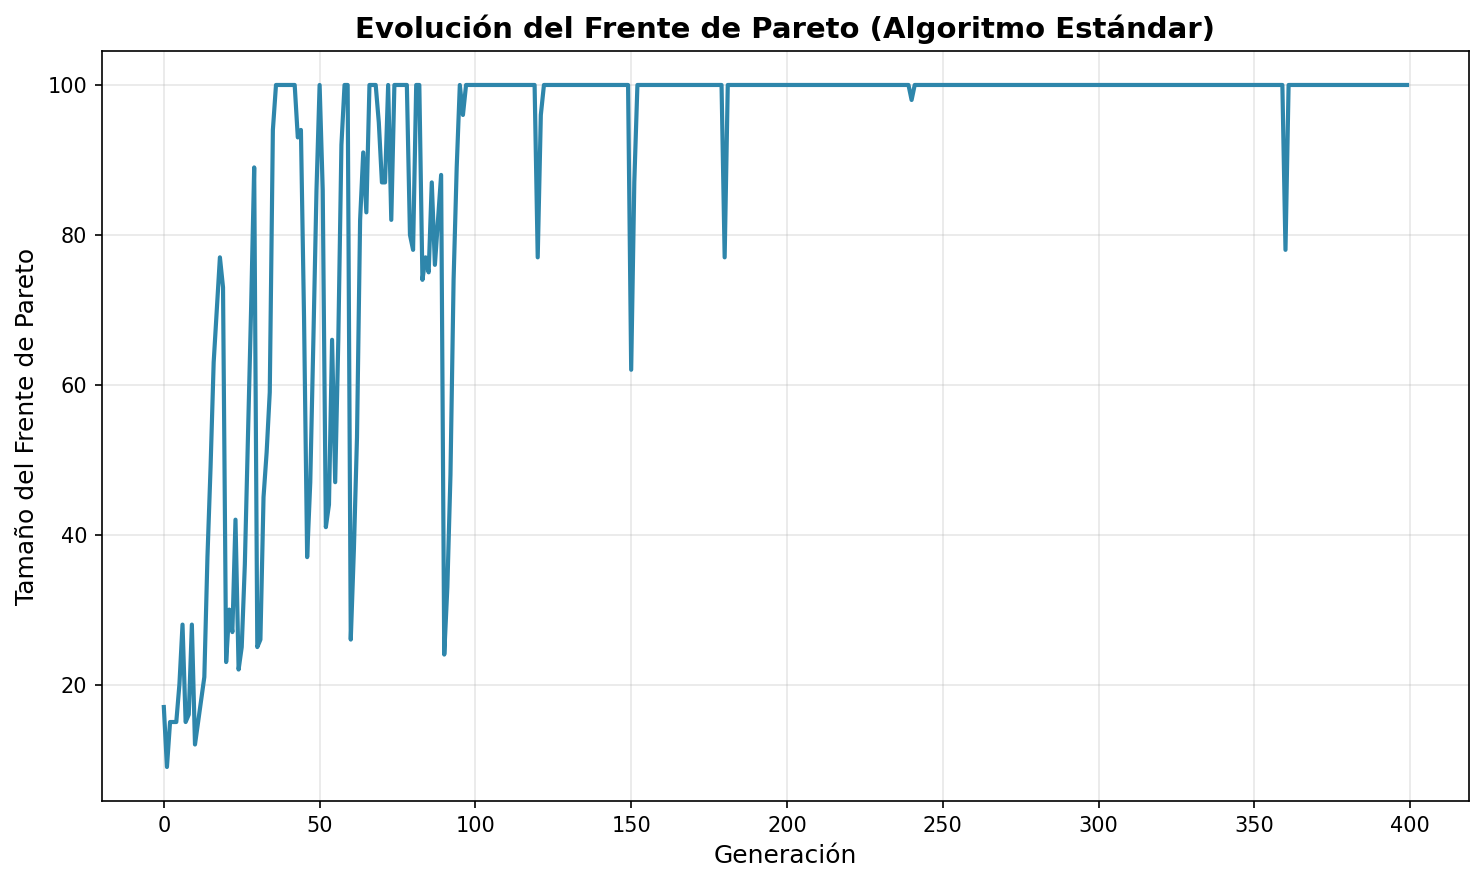
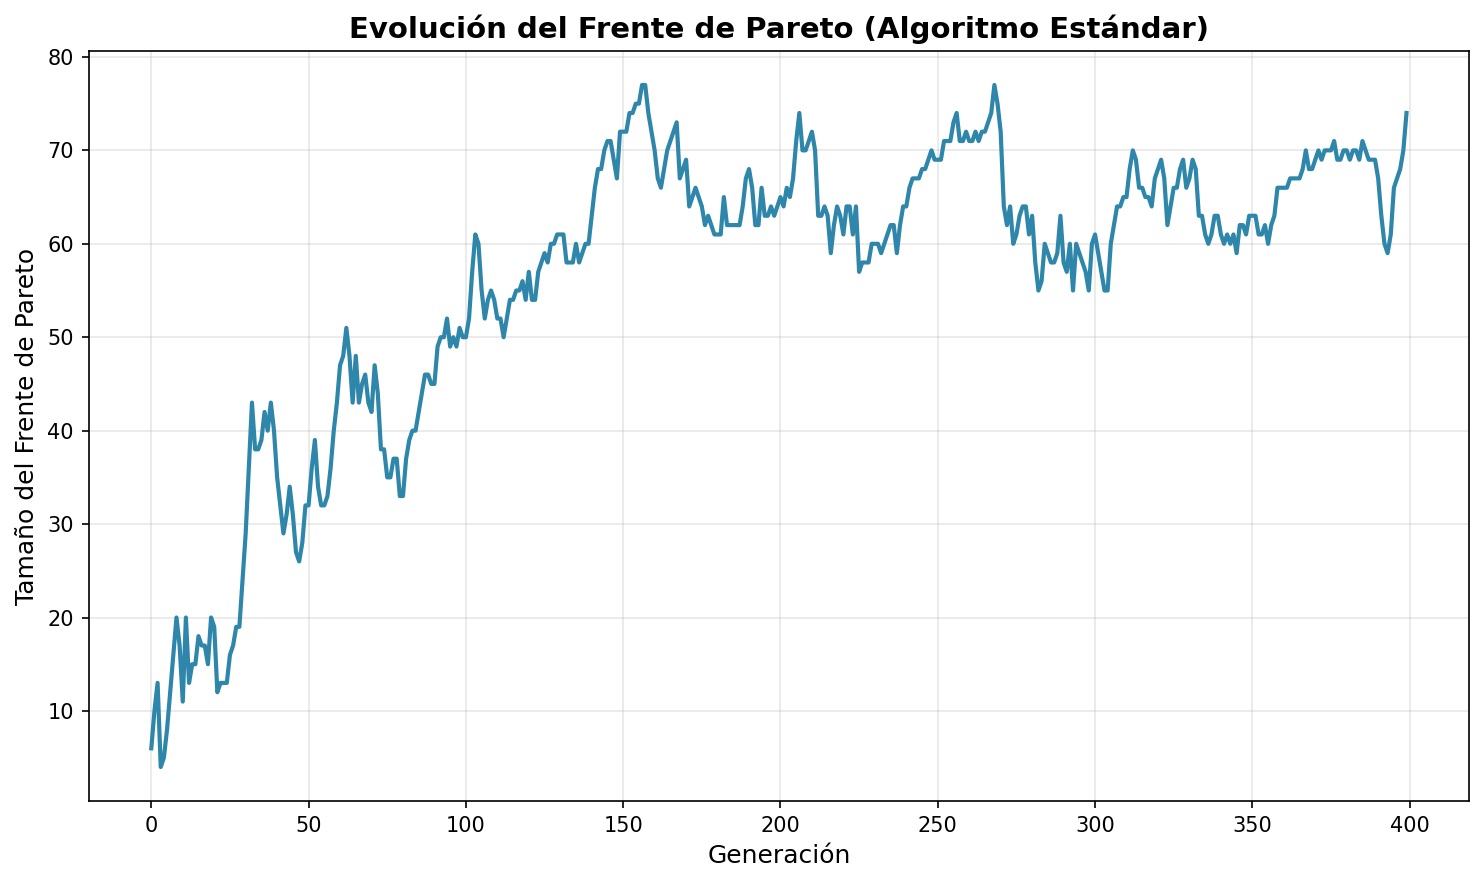
Eliminación del archivo `comparacion_memetica_parcial.csv` y actualización de archivos de resultados gráficos y CSV. Se realizan ajustes en el algoritmo NSGA2 para asegurar la consistencia del tamaño del frente filtrado y mejorar el historial de generaciones. Se actualizan las imágenes de evolución 

diff --git a/tesis3/src/algorithms/nsga2.py b/tesis3/src/algorithms/nsga2.py
@@ -596,7 +596,11 @@ def nsga2(config, metodo_cruce, metodo_mutacion,
                 frente_actual, fitness_frente_actual, epsilon_filtro
             )
             
-            if len(frente_filtrado) < frente_size:
+            # CRÍTICO: Actualizar frente_size SIEMPRE con el tamaño del frente filtrado
+            # incluso si no se eliminaron soluciones (para asegurar consistencia)
+            frente_size_nuevo = len(frente_filtrado)
+            
+            if frente_size_nuevo < frente_size:
                 # Actualizar el frente con las soluciones filtradas
                 genes_filtrados = {
                     tuple(tuple(row) for row in sol.genes)
@@ -612,6 +616,27 @@ def nsga2(config, metodo_cruce, metodo_mutacion,
                 
                 # CRÍTICO: Actualizar frentes y frente_size con el tamaño REAL del frente filtrado
                 frentes[0] = indices_frente_filtrado
+                
+                # Verificar que el tamaño sea correcto
+                if len(frentes[0]) != frente_size_nuevo:
+                    # Si no coincide, usar el tamaño del frente filtrado directamente
+                    frente_size_nuevo = len(frente_filtrado)
+                    # Reconstruir indices_frente_filtrado para que coincida
+                    genes_a_indices = {}
+                    for idx in frentes[0]:
+                        genes_sol = tuple(
+                            tuple(row) for row in poblacion[idx].genes
+                        )
+                        genes_a_indices[genes_sol] = idx
+                    
+                    indices_frente_filtrado = []
+                    for sol in frente_filtrado:
+                        genes_sol = tuple(tuple(row) for row in sol.genes)
+                        if genes_sol in genes_a_indices:
+                            indices_frente_filtrado.append(genes_a_indices[genes_sol])
+                    
+                    frentes[0] = indices_frente_filtrado
+                
                 frente_size = len(frentes[0])
                 
                 if verbose and (gen % 50 == 0 or gen < 10):
@@ -623,10 +648,13 @@ def nsga2(config, metodo_cruce, metodo_mutacion,
                             f"({len(frente_actual)} -> {len(frente_filtrado)}), "
                             f"frente_size={frente_size}"
                         )
+            else:
+                # Aunque no se eliminaron soluciones, asegurar que frente_size sea correcto
+                frente_size = frente_size_nuevo
         
-        # CRÍTICO: Guardar historial DESPUÉS del filtro del frente (que se aplica siempre)
-        # pero ANTES del filtro post-selección de población (que es opcional)
+        # CRÍTICO: Guardar historial AL FINAL de cada generación, después de TODOS los filtros
         # Esto asegura que el historial refleje el tamaño REAL del frente filtrado
+        # NOTA: frente_size ya está actualizado después del filtro post-selección del frente
         historial_frentes.append(frente_size)
         
         # Aplicar filtro post-selección adicional para mantener población limpia (opcional)
